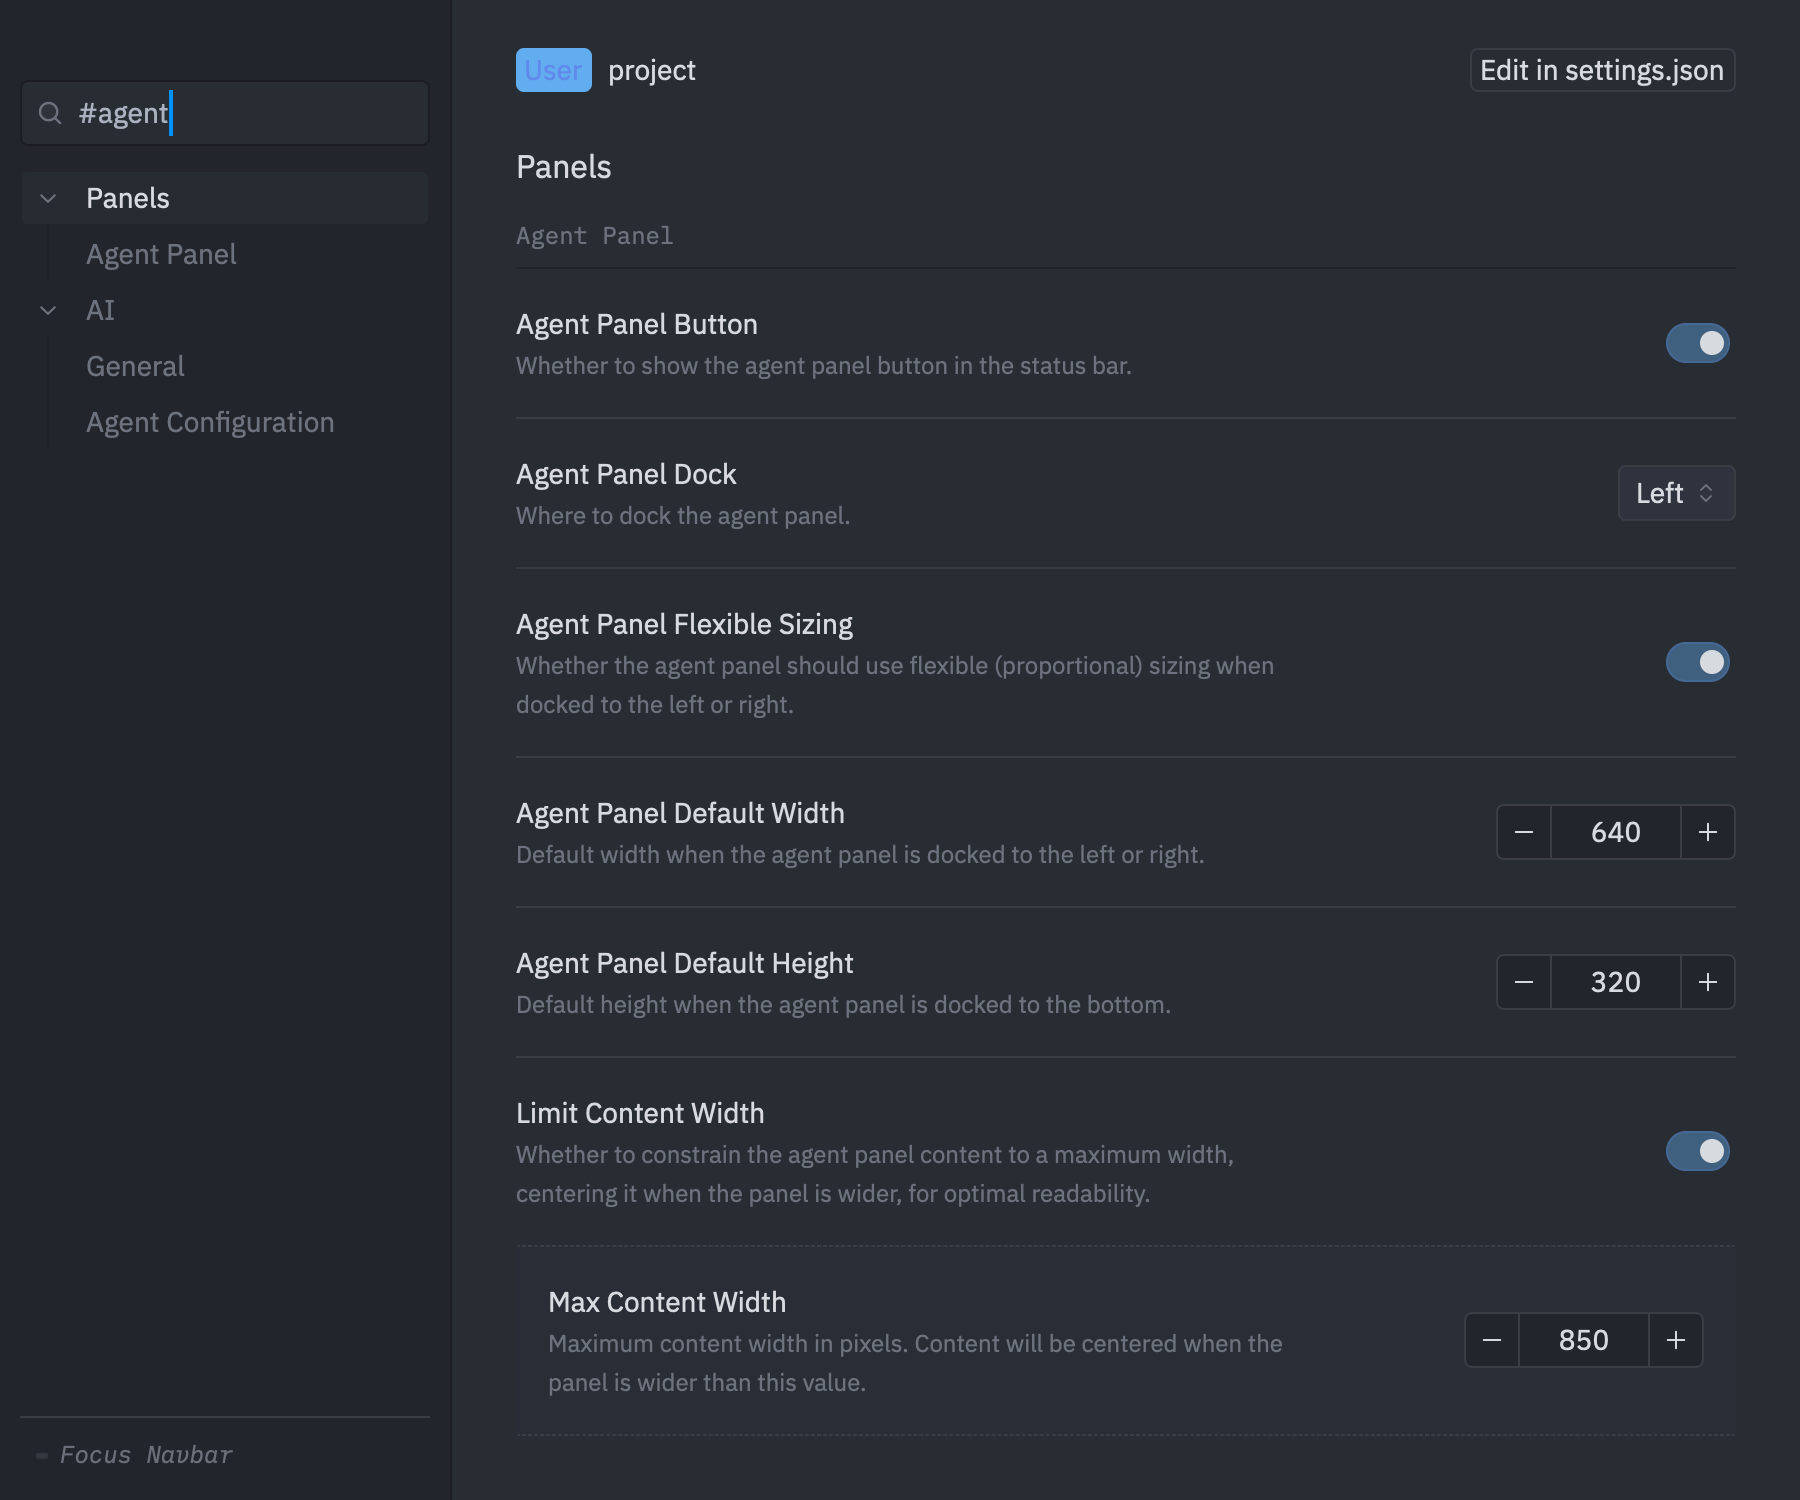
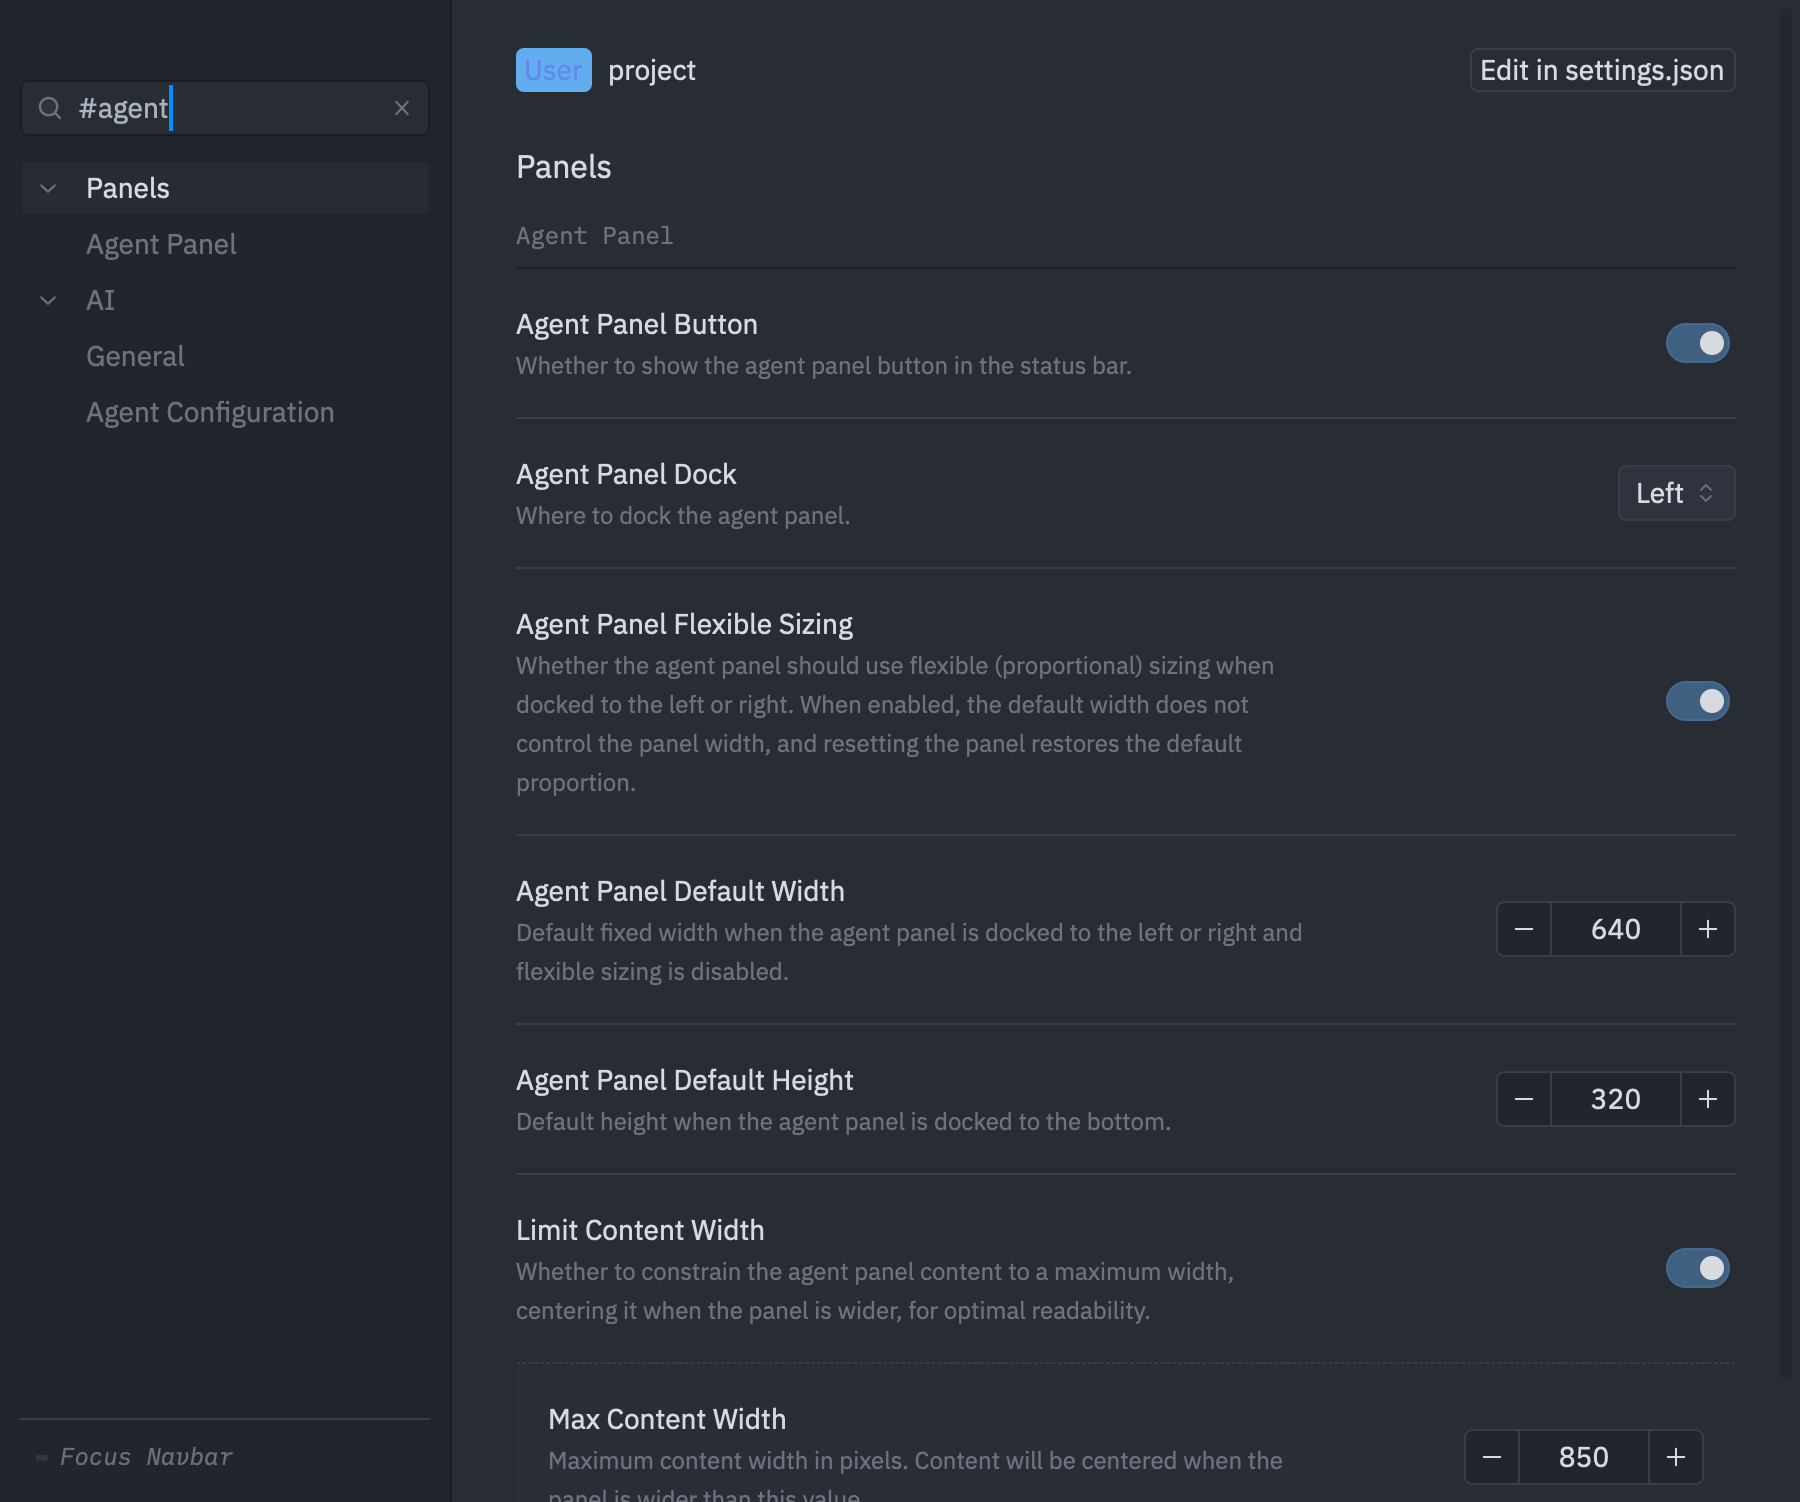
Fix the visual test suite on a machine with PaddleBoard installed (#405)
* Find the settings window by type in the visual test runner

The tool_permissions_settings test took the last entry in cx.windows()
as the settings window. A new window can take a slot freed by an
earlier test's closed window, so the test failed with 'Failed to
downcast to SettingsWindow' once the earlier tests passed.

* Keep the visual test runner off the real data directory

The sidebar checks the other release channels' thread databases, which
PADDLEBOARD_STATELESS doesn't cover, so an installed PaddleBoard with
saved threads put a 'Threads found from other channels' banner into the
sidebar screenshots. Point the data dir at the run's temp dir.

Also re-record the two settings UI baselines. They predate upstream's
longer agent panel width descriptions and the search field's clear
button, both already in v0.3.0.

* Remove review banner

---------

diff --git a/crates/paddleboard/src/visual_test_runner.rs b/crates/paddleboard/src/visual_test_runner.rs
@@ -70,6 +70,13 @@ fn main() {
     let project_path = canonical_temp.join("project");
     std::fs::create_dir_all(&project_path).expect("Failed to create project directory");
 
+    // PaddleBoard: keep the app's data directory inside the temp dir too.
+    // PADDLEBOARD_STATELESS doesn't cover every reader: the sidebar checks the
+    // other release channels' thread databases, so an installed PaddleBoard
+    // with saved threads made the "Threads found from other channels" banner
+    // appear in sidebar screenshots.
+    paths::set_custom_data_dir(&canonical_temp.join("data").to_string_lossy());
+
     // Create test files in the real filesystem
     create_test_files(&project_path);
 
@@ -2601,18 +2608,22 @@ fn run_tool_permissions_visual_tests(
         cx.run_until_parked();
     }
 
-    // Find the settings window - it should be the newest window (last in the list)
+    // PaddleBoard: search for the settings window by type. It is not always
+    // the last entry in `cx.windows()`, because a new window can take a slot
+    // freed by an earlier test's closed window.
     let all_windows = cx.update(|cx| cx.windows());
-    let settings_window = all_windows.last().copied().context("No windows found")?;
 
     let output_dir = std::env::var("VISUAL_TEST_OUTPUT_DIR")
         .unwrap_or_else(|_| "target/visual_tests".to_string());
     std::fs::create_dir_all(&output_dir).log_err();
 
     // Navigate to the tool permissions sub-page using the public API
-    let settings_window_handle = settings_window
-        .downcast::<settings_ui::SettingsWindow>()
-        .context("Failed to downcast to SettingsWindow")?;
+    let settings_window_handle = all_windows
+        .iter()
+        .rev()
+        .find_map(|window| window.downcast::<settings_ui::SettingsWindow>())
+        .context("No SettingsWindow found")?;
+    let settings_window: gpui::AnyWindowHandle = settings_window_handle.into();
 
     settings_window_handle
         .update(cx, |settings_window, window, cx| {
